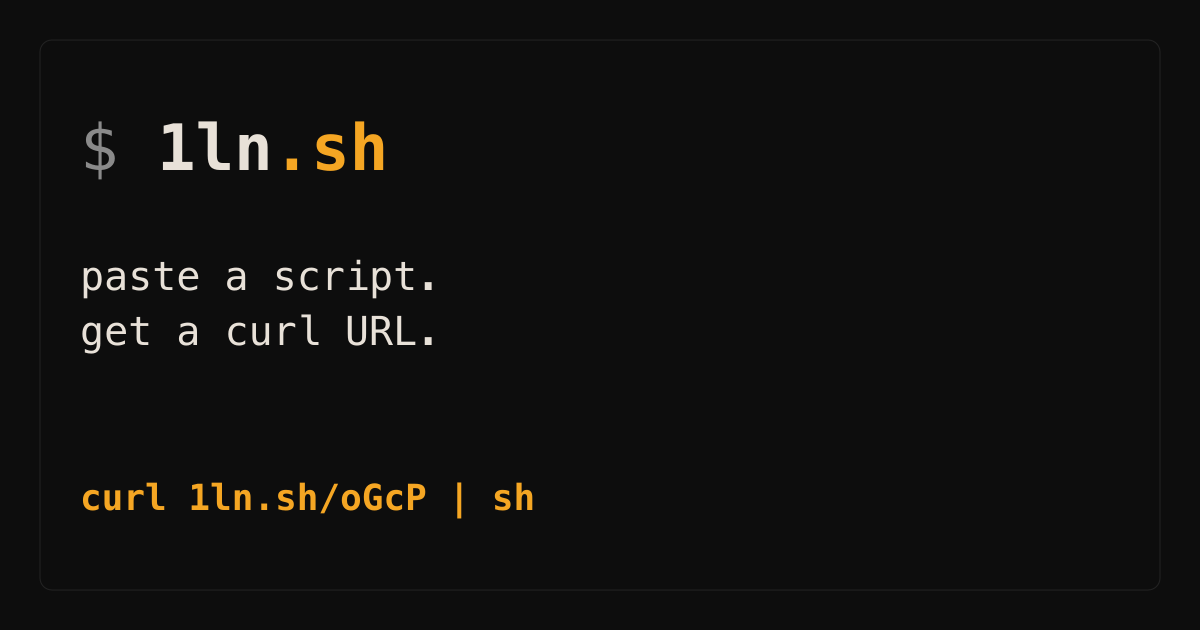
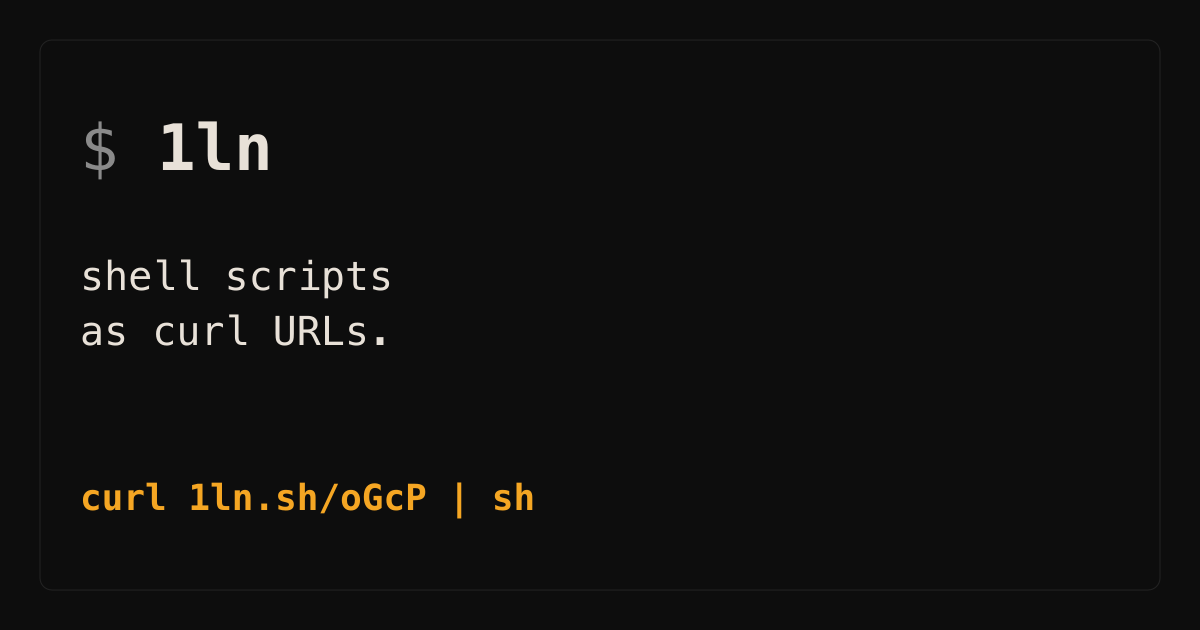
seo: canonical, JSON-LD, robots/sitemap/llms.txt + tighter hero copy (#9)
* seo: canonical+og per page, JSON-LD, robots/sitemap/llms.txt, H1

Quick-wins SEO/GEO bundle from the audit:

- layout: thread `path`, `description`, `ogTitle`, `noindex`, `headExtra`
  through layout(); emit per-page canonical, og:url, og:type, and
  noindex for transient pages (preview, result, gone, 404).
- home: keyword-targeted title + H1 ("Host shell install scripts as
  one-line curl URLs"), better meta description, SoftwareApplication
  JSON-LD inline in <head>.
- gh_preview: per-page title "Install <user>/<repo> via 1ln.sh" and
  per-page canonical/description.
- public: robots.txt (explicit allow for GPTBot/PerplexityBot/
  ClaudeBot/Google-Extended, disallow Bytespider, points at sitemap),
  sitemap.xml (/, /try), llms.txt (product summary + alternatives
  comparison for AI answer engines).
- tests: lock in canonical / og:url / JSON-LD / noindex contracts;
  prune 5 redundant UI tests that overlapped existing coverage.

* ui: shorten wordmark to "1ln" and tighten hero copy

- Header wordmark drops the ".sh" suffix: now pure "1ln". aria-label
  follows suit and the unused .wm-dot CSS rule is removed.
- Footer brand line trimmed to "1ln — curl-pipe-bash..." to match.
- og.svg updates the brand mark + tagline ("shell scripts / as curl
  URLs."); og.png regenerated via scripts/generate-assets.mjs.
- Homepage hero copy tightened: H1 from "Host shell install scripts
  as one-line curl URLs" to "Shell scripts as curl URLs." and tagline
[…]

Changed region(s): [[0.0617, 0.3921, 0.3392, 0.573], [0.2158, 0.181, 0.3392, 0.2714]]

diff --git a/test/views.test.ts b/test/views.test.ts
@@ -31,12 +31,6 @@ describe("views", () => {
     expect(html).toMatch(/href="\/"/);
   });
 
-  it("renderHome shows the one-line hero tagline", () => {
-    const html = renderHome();
-    expect(html).toMatch(/(push|paste) a shell script/i);
-    expect(html).toMatch(/url/i);
-  });
-
   it("renderHome leads with the CLI install command", () => {
     const html = renderHome();
     expect(html).toContain("curl 1ln.sh/install | sh");
@@ -74,14 +68,6 @@ describe("views", () => {
     expect(html).toMatch(/curl 1ln\.sh\/\S+ \| sh/);
   });
 
-  it("renderHome has copy buttons on the install commands", () => {
-    const html = renderHome();
-    expect(html).toContain('data-copy-target="install-cmd"');
-    expect(html).toContain('data-copy-target="mcp-claude-code"');
-    expect(html).toContain('data-copy-target="mcp-stdio"');
-    expect(html).toContain('data-copy-target="mcp-desktop"');
-  });
-
   it("renderHome no longer embeds a large hero logo image (mark moved to header)", () => {
     const html = renderHome();
     expect(html).not.toMatch(/<img[^>]*class="hero-mark"/);
@@ -90,34 +76,17 @@ describe("views", () => {
   it("renderHeader shows the 1ln.sh wordmark text", () => {
     const html = renderHome();
     expect(html).not.toMatch(/<img[^>]*wm-logo/);
-    expect(html).toContain('aria-label="1ln.sh home"');
+    expect(html).toContain('aria-label="1ln home"');
     expect(html).toContain('class="wm-text"');
   });
 
-  it("renderResult shows the one-liner and the delete token", () => {
-    const html = renderResult({ slug: "abc", deleteToken: "T0K3N" });
-    expect(html).toContain("curl 1ln.sh/abc | sh");
-    expect(html).toContain("T0K3N");
-  });
-
-  it("renderResult shows a Ready heading and the one-liner with a copy button", () => {
+  it("renderResult shows Ready, the one-liner, and the delete token (each with a copy button)", () => {
     const html = renderResult({ slug: "abc", deleteToken: "T0K3N" });
     expect(html).toMatch(/Ready/);
     expect(html).toContain("curl 1ln.sh/abc | sh");
-    expect(html).toContain('class="copy-btn"');
     expect(html).toContain('data-copy-target="oneliner"');
-  });
-
-  it("renderResult shows the delete token with its own copy button", () => {
-    const html = renderResult({ slug: "abc", deleteToken: "T0K3N" });
     expect(html).toContain("T0K3N");
     expect(html).toContain('data-copy-target="delete-token"');
-  });
-
-  it("renderResult includes the copy-button script tag exactly once", () => {
-    const html = renderResult({ slug: "abc", deleteToken: "T0K3N" });
-    const matches = html.match(/<script>[\s\S]*?<\/script>/g) ?? [];
-    expect(matches.length).toBe(1);
   });
 
   it("renderPreview shows the script content escaped", () => {
@@ -151,6 +120,44 @@ describe("views", () => {
     });
     expect(html).toContain('data-copy-target="oneliner"');
     expect(html).toContain("curl 1ln.sh/abc | sh");
+  });
+
+  it("renderHome sets canonical, og:type, og:url, and matching description", () => {
+    const html = renderHome();
+    expect(html).toContain('<link rel="canonical" href="https://1ln.sh"');
+    expect(html).toContain('property="og:type" content="website"');
+    expect(html).toContain('property="og:url" content="https://1ln.sh"');
+    expect(html).toMatch(/<meta name="description" content="[^"]*curl 1ln\.sh/);
+  });
+
+  it("renderHome has a keyword-targeted H1 and title", () => {
+    const html = renderHome();
+    expect(html).toMatch(/<h1>[^<]*curl URLs[^<]*<\/h1>/i);
+    expect(html).toMatch(/<title>[^<]*One-Line curl URLs[^<]*<\/title>/i);
+  });
+
+  it("renderHome embeds SoftwareApplication JSON-LD", () => {
+    const html = renderHome();
+    expect(html).toContain('<script type="application/ld+json">');
+    expect(html).toContain('"@type":"SoftwareApplication"');
+    expect(html).toContain('"name":"1ln.sh"');
+  });
+
+  it("renderTry sets its own canonical to /try", () => {
+    const html = renderTry();
+    expect(html).toContain('<link rel="canonical" href="https://1ln.sh/try"');
+    expect(html).toContain('property="og:url" content="https://1ln.sh/try"');
+  });
+
+  it("renderPreview marks preview pages noindex with their own canonical", () => {
+    const html = renderPreview({
+      slug: "abc",
+      content: "echo hi",
+      visibility: "public",
+      createdAt: Date.now(),
+    });
+    expect(html).toContain('name="robots" content="noindex"');
+    expect(html).toContain('rel="canonical" href="https://1ln.sh/abc?view"');
   });
 
   it("renderPreview shows a status row with visibility and age", () => {

diff --git a/src/views/layout.ts b/src/views/layout.ts
@@ -10,12 +10,13 @@ export function escapeHtml(s: string): string {
     .replaceAll("'", "&#39;");
 }
 
-const META = `
-<meta property="og:title" content="1ln.sh">
-<meta property="og:description" content="Paste a shell script. Get a one-line curl URL.">
-<meta property="og:image" content="https://1ln.sh/og.png">
-<meta property="og:url" content="https://1ln.sh">
+const SITE_ORIGIN = "https://1ln.sh";
+const DEFAULT_DESCRIPTION =
+  "Host shell install scripts as one-line curl URLs. Push a script with the 1ln CLI, get back curl 1ln.sh/<slug> | sh — run it on any server.";
+
+const STATIC_META = `
 <meta name="twitter:card" content="summary_large_image">
+<meta property="og:image" content="https://1ln.sh/og.png">
 <meta name="theme-color" content="#0d0d0d">
 <meta name="application-name" content="1ln">
 <meta name="apple-mobile-web-app-title" content="1ln">
@@ -44,7 +45,6 @@ a:hover { color: var(--accent-hover); text-decoration: underline; }
 .wm { display: inline-flex; align-items: center; line-height: 1; }
 .wm:hover { text-decoration: none; }
 .wm-text { font-weight: 700; font-size: clamp(1.4rem, 4vw, 1.75rem); letter-spacing: -0.04em; color: var(--text); }
-.wm-dot { color: var(--text); }
 
 .site-footer { margin-top: 64px; padding-top: 16px; border-top: 1px solid var(--border); color: var(--text-muted); font-size: 12px; display: flex; flex-wrap: wrap; gap: 12px; align-items: center; justify-content: space-between; }
 .site-footer .dot { color: var(--text-muted); }
@@ -137,15 +137,36 @@ pre { background: var(--surface); border: 1px solid var(--border); padding: 14px
 .chip.danger { color: var(--danger); border-color: rgba(232, 93, 77, 0.4); background: rgba(232, 93, 77, 0.06); }
 `.trim();
 
-export function layout(title: string, body: string): string {
+export type LayoutOpts = {
+  path?: string;
+  description?: string;
+  ogTitle?: string;
+  noindex?: boolean;
+  headExtra?: string;
+};
+
+export function layout(title: string, body: string, opts: LayoutOpts = {}): string {
+  const path = opts.path ?? "/";
+  const canonical = SITE_ORIGIN + (path === "/" ? "" : path);
+  const description = opts.description ?? DEFAULT_DESCRIPTION;
+  const ogTitle = opts.ogTitle ?? title;
+  const robots = opts.noindex ? `<meta name="robots" content="noindex">` : "";
+
   return `<!doctype html>
 <html lang="en">
 <head>
 <meta charset="utf-8">
 <meta name="viewport" content="width=device-width, initial-scale=1">
 <title>${escapeHtml(title)}</title>
-<meta name="description" content="Paste a shell script. Get a one-line curl URL you can run on any server. Or proxy any install script from GitHub.">
-${META}
+<meta name="description" content="${escapeHtml(description)}">
+<link rel="canonical" href="${escapeHtml(canonical)}">
+${robots}
+<meta property="og:type" content="website">
+<meta property="og:title" content="${escapeHtml(ogTitle)}">
+<meta property="og:description" content="${escapeHtml(description)}">
+<meta property="og:url" content="${escapeHtml(canonical)}">
+${STATIC_META}
+${opts.headExtra ?? ""}
 <style>${STYLES}</style>
 </head>
 <body>

diff --git a/src/views/home.ts b/src/views/home.ts
@@ -14,11 +14,27 @@ const CLAUDE_DESKTOP_JSON = `{
   }
 }`;
 
+const JSON_LD = JSON.stringify({
+  "@context": "https://schema.org",
+  "@type": "SoftwareApplication",
+  name: "1ln.sh",
+  url: "https://1ln.sh",
+  applicationCategory: "DeveloperApplication",
+  operatingSystem: "Linux, macOS, Unix",
+  description:
+    "1ln.sh turns shell scripts into short curl-pipe-sh URLs. Push a script with the 1ln CLI, get back a one-line install URL like curl 1ln.sh/oGcP that you can run on any server. Integrates with Claude, Cursor, and other MCP clients via the 1ln-mcp npm package.",
+  offers: { "@type": "Offer", price: "0", priceCurrency: "USD" },
+  creator: { "@type": "Organization", name: "1ln.sh", url: "https://1ln.sh" },
+  downloadUrl: "https://1ln.sh/install",
+  installUrl: "https://1ln.sh/install",
+});
+
 export function renderHome(): string {
   return layout(
-    "1ln.sh — paste a script, get a curl URL",
+    "1ln.sh — Host Shell Scripts as One-Line curl URLs",
     `<section class="hero">
-  <p class="hero-tagline">Push a shell script. Get a short URL you can run on any server.</p>
+  <h1>Shell scripts as curl URLs.</h1>
+  <p class="hero-tagline">Push a script, run it anywhere with <code>curl 1ln.sh/&lt;slug&gt; | sh</code>.</p>
   <div class="code-row">
     <pre id="install-cmd" data-copy-value="curl 1ln.sh/install | sh">curl 1ln.sh/install | sh</pre>
     ${renderCopyButton("install-cmd")}
@@ -77,6 +93,12 @@ export function renderHome(): string {
 </section>
 
 <p class="try-link"><a href="/try">Try it in the browser &rarr;</a></p>
-${copyButtonScript()}`
+${copyButtonScript()}`,
+    {
+      path: "/",
+      description:
+        "Host shell install scripts as one-line curl URLs. Push a script with the 1ln CLI, get back curl 1ln.sh/<slug> | sh — run it on any server. Free, open source, MCP-compatible.",
+      headExtra: `<script type="application/ld+json">${JSON_LD}</script>`,
+    }
   );
 }

diff --git a/test/wordmark.test.ts b/test/wordmark.test.ts
@@ -2,16 +2,16 @@ import { describe, it, expect } from "vitest";
 import { renderWordmark, renderHeader, renderFooter } from "../src/views/wordmark";
 
 describe("wordmark", () => {
-  it("renderWordmark renders the 1ln.sh text without the logo image", () => {
+  it("renderWordmark renders the 1ln text-only wordmark (no image, no .sh suffix)", () => {
     const html = renderWordmark();
     expect(html).toContain('class="wm"');
     expect(html).toContain('href="/"');
     expect(html).not.toMatch(/<img[^>]*wm-logo/);
-    expect(html).toContain('aria-label="1ln.sh home"');
+    expect(html).toContain('aria-label="1ln home"');
     expect(html).toContain('class="wm-text"');
-    expect(html).toContain('class="wm-dot"');
-    expect(html).toContain("1ln");
-    expect(html).toContain(".sh");
+    expect(html).not.toContain('class="wm-dot"');
+    expect(html).toContain(">1ln<");
+    expect(html).not.toMatch(/>1ln<\/[a-z]+>\s*<[^>]*>\.sh/);
   });
 
   it("renderHeader contains the wordmark", () => {

diff --git a/src/views/gh_preview.ts b/src/views/gh_preview.ts
@@ -16,7 +16,7 @@ export function renderGhPreview(opts: {
     : `curl 1ln.sh/gh/${opts.user}/${opts.repo}${opts.path !== "install.sh" ? "/" + opts.path : ""} | sh`;
 
   return layout(
-    `1ln.sh/gh/${opts.user}/${opts.repo}`,
+    `Install ${opts.user}/${opts.repo} via 1ln.sh`,
     `<h1>1ln.sh/gh/<span class="accent">${escapeHtml(opts.user)}/${escapeHtml(opts.repo)}</span></h1>
 
 <div class="status-row">
@@ -38,6 +38,11 @@ export function renderGhPreview(opts: {
   Source: <a href="${escapeHtml(opts.sourceUrl)}" rel="noopener">${escapeHtml(opts.sourceUrl)}</a> ·
   <a href="mailto:[email redacted]?subject=Report%20gh/${encodeURIComponent(opts.user + "/" + opts.repo)}">Report abuse</a>
 </p>
-${copyButtonScript()}`
+${copyButtonScript()}`,
+    {
+      path: `/gh/${opts.user}/${opts.repo}?view`,
+      description: `Install ${opts.user}/${opts.repo} from GitHub with curl 1ln.sh/gh/${opts.user}/${opts.repo} | sh — proxied through 1ln.sh.`,
+      noindex: true,
+    }
   );
 }

diff --git a/src/views/preview.ts b/src/views/preview.ts
@@ -22,7 +22,7 @@ export function renderPreview(opts: {
   const oneliner = `curl 1ln.sh/${opts.slug} | sh`;
   const created = new Date(opts.createdAt).toISOString();
   return layout(
-    `1ln.sh/${opts.slug}`,
+    `1ln.sh/${opts.slug} — shell script`,
     `<h1>1ln.sh/<span class="accent">${escapeHtml(opts.slug)}</span></h1>
 
 <div class="status-row">
@@ -42,6 +42,11 @@ export function renderPreview(opts: {
   <a href="/${escapeHtml(opts.slug)}">Raw</a> ·
   <a href="mailto:[email redacted]?subject=Report%20${encodeURIComponent(opts.slug)}">Report abuse</a>
 </p>
-${copyButtonScript()}`
+${copyButtonScript()}`,
+    {
+      path: `/${opts.slug}?view`,
+      description: `Shell script hosted on 1ln.sh. Run with curl 1ln.sh/${opts.slug} | sh.`,
+      noindex: true,
+    }
   );
 }

diff --git a/src/views/try.ts b/src/views/try.ts
@@ -2,7 +2,7 @@ import { layout } from "./layout";
 
 export function renderTry(): string {
   return layout(
-    "1ln.sh — try in the browser",
+    "1ln.sh — Try in the browser",
     `<h1>Try in the browser</h1>
 <p class="subtitle">Paste a shell script. Get a one-line <code>curl &hellip; | sh</code> URL.</p>
 
@@ -14,6 +14,11 @@ export function renderTry(): string {
   </div>
 </form>
 
-<p class="back-link"><a href="/">&larr; back</a></p>`
+<p class="back-link"><a href="/">&larr; back</a></p>`,
+    {
+      path: "/try",
+      description:
+        "Paste a shell script in the browser and get a one-line curl 1ln.sh/<slug> | sh URL. No signup needed.",
+    }
   );
 }

diff --git a/src/views/wordmark.ts b/src/views/wordmark.ts
@@ -1,5 +1,5 @@
 export function renderWordmark(): string {
-  return `<a class="wm" href="/" aria-label="1ln.sh home"><span class="wm-text">1ln<span class="wm-dot">.sh</span></span></a>`;
+  return `<a class="wm" href="/" aria-label="1ln home"><span class="wm-text">1ln</span></a>`;
 }
 
 export function renderHeader(): string {
@@ -8,7 +8,7 @@ export function renderHeader(): string {
 
 export function renderFooter(): string {
   return `<footer class="site-footer">
-  <span class="muted">1ln.sh — curl-pipe-bash, but with a URL bar.</span>
+  <span class="muted">1ln — curl-pipe-bash, but with a URL bar.</span>
   <span class="site-footer-links">
     <a href="https://www.npmjs.com/package/1ln-mcp" rel="noopener" target="_blank">npm</a>
     <span class="dot">·</span>

diff --git a/src/views/gone.ts b/src/views/gone.ts
@@ -17,6 +17,7 @@ export function renderGone(opts: GoneOpts): string {
     `<h1 class="danger">410 Gone</h1>
 <p>${escapeHtml(headline)}</p>
 <p class="secondary">${escapeHtml(detail)}</p>
-<p style="margin-top:24px;"><a href="/">Create a new one →</a></p>`
+<p style="margin-top:24px;"><a href="/">Create a new one →</a></p>`,
+    { noindex: true }
   );
 }

diff --git a/src/views/not_found.ts b/src/views/not_found.ts
@@ -5,6 +5,7 @@ export function renderNotFound(path: string): string {
     `404 Not Found — 1ln.sh`,
     `<h1 class="danger">404</h1>
 <p>No script at <code>${escapeHtml(path)}</code>.</p>
-<p style="margin-top:24px;"><a href="/">← Back to home</a></p>`
+<p style="margin-top:24px;"><a href="/">← Back to home</a></p>`,
+    { noindex: true }
   );
 }

diff --git a/src/views/result.ts b/src/views/result.ts
@@ -23,6 +23,7 @@ export function renderResult(opts: { slug: string; deleteToken: string }): strin
 </div>
 
 <p style="margin-top:24px;"><a href="/">Create another</a></p>
-${copyButtonScript()}`
+${copyButtonScript()}`,
+    { path: `/${opts.slug}`, noindex: true }
   );
 }